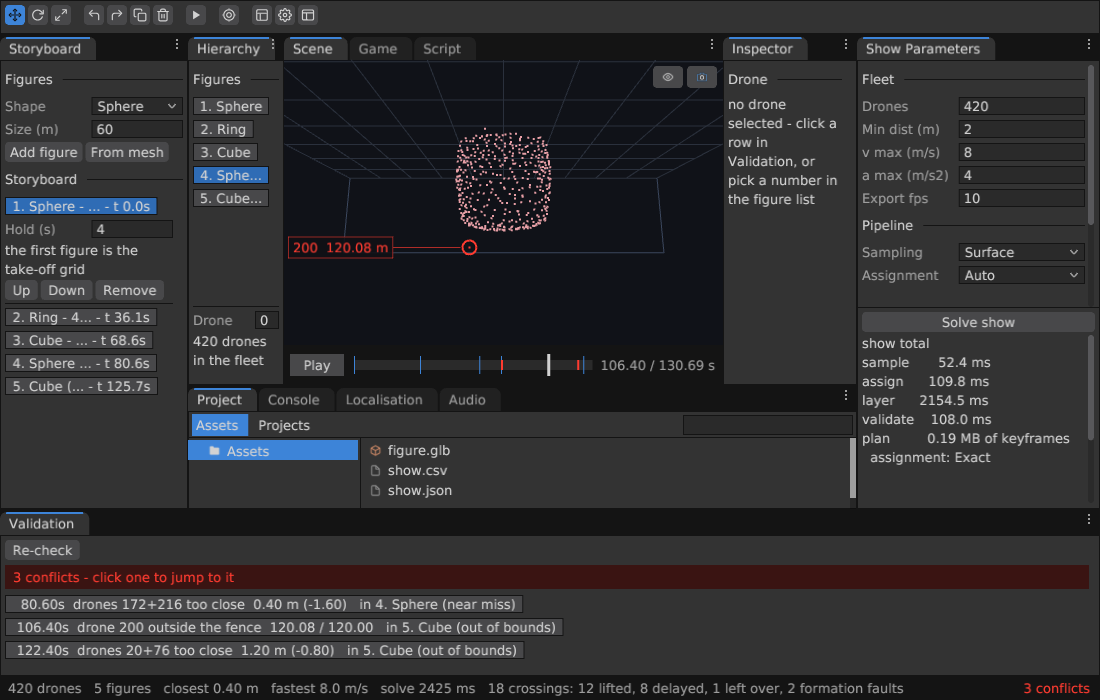
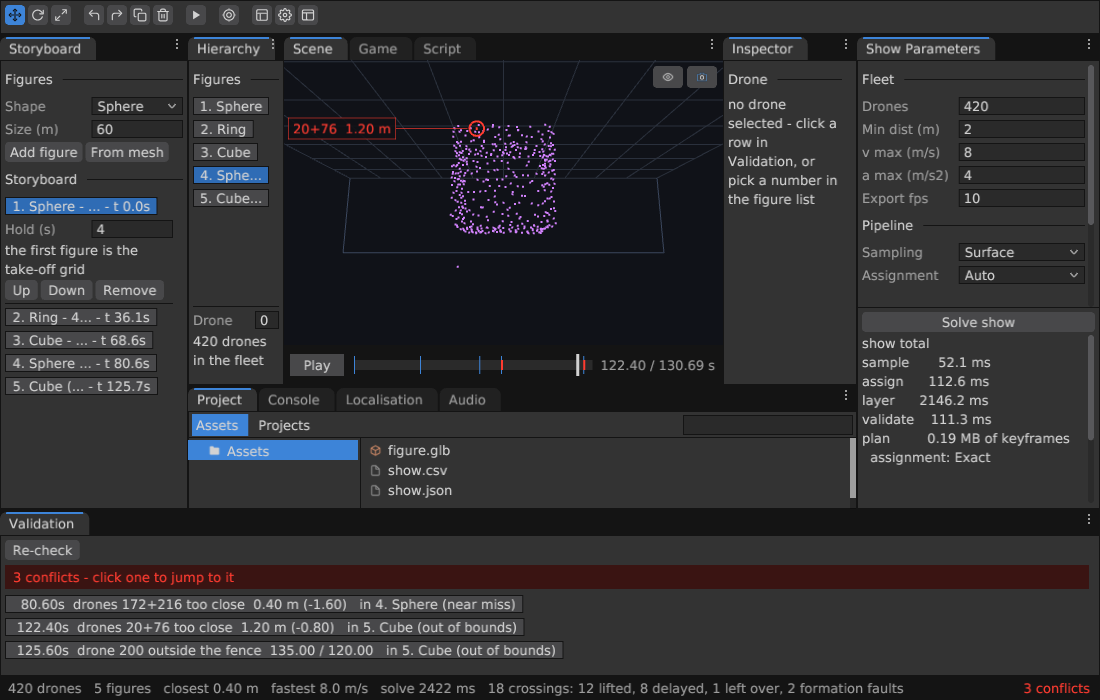
shots: the pictures are from the run RUN.md documents
Regenerated at bb8f65d, so the validation list on 06 and 08 shows the ceiling
breach at its real severity. Plus the gauntlet log.

diff --git a/GAUNTLET.md b/GAUNTLET.md
@@ -1,0 +1,41 @@
+# Gauntlet-Log — daidalos
+**Ziel:** FORTSETZUNG einer bereits laufenden Arbeit. Ein Server-Neustart hat Runde 3 mitten im Bau abgebrochen; der Stand wurde gerettet (Commit fedb5df). NICHT von vorne anfangen, NICHT neu strukturieren — den vorhandenen Code fertig machen.
+
+WAS ES SCHON GIBT (lesen: RUN.md, PLAN.md, README.md, src/dai_show*.cpp, include/dai_show*.h, tests/test_droneshow.cpp, tests/droneshow_cases_*.cpp, tools/droneshow_shot.cpp):
+Daidalos ist Justins deterministische C++-Engine (Vulkan, eigener Editor, eigene Physik Talos). Darin ist ein Drohnenshow-Modus gebaut: project.daidalos hat ein Feld kind = game | droneshow, das dasselbe Binary auf ein anderes Panel-Set umschaltet. Die Pipeline steht: 3D-Modell -> Punktwolke sampeln (Mindestabstand als harte Nebenbedingung) -> Farbe je Punkt -> Zuordnung (Jonker-Volgenant exakt, ueber 2000 Drohnen geclusterte Auktion) -> Layering/Zeitversatz fuer kollisionsfreie Uebergaenge -> Validierung (Mindestabstand, v_max, a_max ueber die ganze Zeitachse) -> Export .skyc/.csv/.json. Skaliert gemessen bis 10.000 Drohnen. Zwei Gauntlet-Runden gelaufen (67, dann 70/100, Ziel 85).
+
+DIE KONKRETE, MESSBARE RESTAUFGABE — das ist die Hauptarbeit dieser Runde:
+`./build/test_droneshow` baut sauber (0 Compilerfehler), aber schlaegt fehl: "FAILED: 244 checks, 2 failures". Die beiden Fehler stehen in Testfall [3g] "der gesampelte Show - der auf den Screenshots - ist auch sauber":
+  FAIL 1 "distance conflicts beyond the planted pair - worst is 72+220 at 30.80s, 0.000 m inside the limit: the show on the screenshots does not fly"
+  FAIL 2 "transition pairs left unresolved in the sampled show"
+Das heisst im Klartext: die Show, die auf den eigenen Screenshots zu sehen ist, ist nicht fliegbar. Ein Paar liegt exakt AUF der Grenze (0.000 m innerhalb) — das riecht nach einem Epsilon-/Vergleichsfehler (< statt <=, oder float-Rundung im Broadphase-Radius), muss aber wirklich untersucht und nicht weggetrickst werden. Der zweite Fehler ist echt: die Layer-Rettung in dai_show_layer (src/dai_show_plan.cpp, Lambda route_leg mit slot/micro/ramps) loest nicht alle Konfliktpaare auf.
+LOESE BEIDE SAUBER. Verboten: Testschwelle aufweichen, Testfall entschaerfen, Konflikt "als bekannt" in einen Report schieben und den Test gruen faerben, oder die Fixture-Show so lange verduennen bis der Konflikt verschwindet. Wenn die Rettung ein Paar wirklich nicht aufloesen kann, muss sie eine hoehere Ebene oeffnen oder den Uebergang zeitlich strecken — die Show muss danach echt fliegbar sein, mit demselben Mindestabstand.
+
+DANACH, in dieser Reihenfolge, die Punkte aus der urspruenglichen Aufgabe, soweit sie noch schwach sind:
+1. SAMPLING: N ist FIX (die Flotte hat 50 oder 100 Drohnen, nicht "so viele wie das Mesh hergibt"). Punkte gleichmaessig verteilen mit garantiertem Mindestabstand (Poisson-Disk / Lloyd-Relaxation), Silhouette/Kanten bevorzugt gewichten, weil das Publikum aus einer Richtung schaut. Ergebnis muss deterministisch sein (gleicher Seed, gleiche Punkte, bitweise).
+2. FARBE je Punkt aus Vertex-Color oder Textur am Sample-Ort.
+3. ZUORDNUNG: minimale Gesamtflugstrecke, exakt fuer kleine N, geclustert fuer grosse.
+4. UEBERGAENGE: kollisionsfrei auch bei DICHTEN Formationen — genau da, wo Skybrush selbst nur "guaranteed collision-free if the formations are sparse enough" verspricht. Das ist der inhaltliche Mehrwert.
+5. VALIDIERUNG: jede Regel einzeln pruefbar, Verstoss mit Paar-ID und Zeitstempel benannt, klickbar im UI.
+6. GUI im Daidalos-Editor: Storyboard/Timeline, Parameter-Panel (Mindestabstand, v_max, a_max, Show-Origin GPS, Drohnenzahl), Vorschau im Viewport, Konfliktliste. Beim Anlegen eines Projekts die zwei Kacheln game / droneshow.
+
+REGELN: kein neues Build-System, build.sh bleibt der einzige Einstieg. Determinismus ist nicht verhandelbar (keine Clock, kein ungeseedetes Random, pure step-Funktion) — es gibt dafuer einen Determinismus-Beweis im Test, der gruen bleiben muss. Alle 29 anderen Suiten in tools/run_tests.sh muessen gruen bleiben, nichts am bestehenden Engine-Kern kaputt machen. Am Ende RUN.md und die gemessene Skalierungstabelle auf den tatsaechlichen Stand bringen — gemessen, nicht behauptet.
+**Messlatte:** HART UND MESSBAR:
+(1) `./build.sh` laeuft ohne Fehler durch. (2) `./build/test_droneshow` endet mit NULL Fehlern — die beiden [3g]-Fehler ("0.000 m inside the limit" und "transition pairs left unresolved") sind ECHT geloest, nicht durch aufgeweichte Schwellen, entschaerfte Testfaelle oder Verduennen der Fixture-Show. Ein Kritiker MUSS `git log -p` bzw. den Diff auf genau diesen Trick pruefen und bei Verdacht hart abwerten. (3) `./tools/run_tests.sh` — alle Suiten gruen, keine Regression im Engine-Kern. (4) Der Determinismus-Beweis im Test bleibt gruen: zweimal laufen lassen ergibt bitweise dasselbe Ergebnis. (5) Die Skalierungstabelle laeuft bis 10.000 Drohnen durch und bleibt unter den dokumentierten Grenzen (Tick-Verhaeltnis < 15x, Wall < 30 s). (6) Die exportierte .skyc-Show der Fixture ist nachweislich fliegbar: kein Paar unterschreitet den Mindestabstand, keine Bahn ueberschreitet v_max/a_max — geprueft ueber die GESAMTE Zeitachse, nicht nur an den Keyframes. (7) Die Screenshots in .gauntlet-shots/ zeigen ein bedienbares Panel-Set: kein ueberlappender Text, keine abgeschnittenen Labels, keine leeren Platzhalter-Panels, Zahlen im Parameter-Panel lesbar, Konfliktliste sichtbar und klickbar, Storyboard/Timeline erkennbar. Ein Screenshot, der nur ein leeres oder halb gezeichnetes Fenster zeigt, ist ein Mangel. (8) RUN.md beschreibt exakt das, was in diesem Checkout wirklich passiert — jede genannte Zahl ist eine gemessene Ausgabe, kein Wunsch.
+**Bester Score:** 79/100 (Runde 2)
+**Agenten:** 22 · **Dauer:** 15880s
+**Runden-Snapshots:** je Runde ein Git-Commit + Tag (gauntlet-r<N>-score<S>). Bester Stand: Branch `gauntlet-best` (Runde 2) — Wechsel mit `git checkout gauntlet-best`, zurueck mit `git checkout -`.
+**Bildpruefung:** ja (12 Screenshots)
+**Runde 0 — Architektur**: 3 Module (separator, validate, sampling) — bestehendes Projekt
+  📷 Runde 1: 12 Screenshot(s): 01-start.png, 02-transition.png, 03-viewport-conflict.png, 04-storyboard.png, 05-parameters.png, 06-validation.png, 07-preview-full.png, 08-conflict-clicked.png, 09-game-mode-editor.png, narrow-01-start.png, narrow-02-transition.png, narrow-03-viewport-conflict.png
+**Runde 1** — Score 78/100 (Ziel 88)
+  ⚠ 2 Builder fehlgeschlagen: separator (Claude Code process aborted by user), validate (Claude Code process aborted by user)
+  Maengel: • RUN.md §4 (Zeilen 145-164) dokumentiert Screenshot-Namen mit Suffix `-narrow-1100x700` / `-large-1920x1080`; im Checkout liegen aber `narrow-*.png` und `wide-*.png`. tools/droneshow_shot.cpp:379 haengt das Tag als SUFFIX an - die vorliegenden Bilder koennen mit dem dokumentierten Befehl gar nicht entstehen, sie wurden von Hand umbenannt. Damit ist Kriterium 8 (RUN.md = was wirklich passiert) verletzt.  • .gauntlet-shots/09-game-mode-editor.png wird von keinem Werkzeug dieses Checkouts erzeugt (tools/editor_shot.cpp:145 schreibt `editor_<name>.png`) und ist in RUN.md nirgends erwaehnt - ein nicht reproduzierbarer, handverlesener Beleg.  • 09-game-mode-editor.png, Mitte/unten rechts: das gruene Translations-Gizmo steht auf leerem Boden, waehrend der Inspector `ball0` mit Position 2.4/0.7/0.4 selektiert zeigt; keine der beiden sichtbaren Kugeln traegt das Gizmo. Zusaetzlich stehen im Rigidbody-Block Density/Friction/Bounce alle auf 0 fuer einen 'Dynamic'-Koerper - sieht nach unbefuellten Defaults aus.  • 04-storyboard.png, 05-parameters.png, 06-validation.png: die Einzelpanel-Aufnahmen (tools/droneshow_shot.cpp:406-420, panel_shot) rendern das Panel ohne Tab/Titel formatfuellend - 06 zeigt EINE Konfliktzeile in ~790 px Panelhoehe, 04 drei Zeilen Liste ueber ~650 px Leere, und die Segment-Buttons Sphere/Cube/Ring bzw. Surface/Volume/Silhouette werden auf je ~490 px gestreckt. Das wirkt wie halb gezeichnete Platzhalter-Panels statt bedienbarer Panels.  • 01/02/03/08-*.png, Storyboard-Panel oben links: 'no mesh selected - pick one in the Project panel', waehrend das Project/Assets-Panel nur show.csv/show.json/show.skyc listet - im fotografierten Projekt ist kein Mesh waehlbar, der 'Add figure'-Weg ist in genau der ausgelieferten Fixture eine Sackgasse.
+  📷 Runde 2: 12 Screenshot(s): 01-start.png, 02-transition.png, 03-viewport-conflict.png, 04-storyboard.png, 05-parameters.png, 06-validation.png, 07-preview-full.png, 08-conflict-clicked.png, 09-game-mode-editor.png, narrow-01-start.png, narrow-02-transition.png, narrow-03-viewport-conflict.png
+**Runde 2** — Score 79/100 (Ziel 88)
+  Maengel: • Der Checkout ist SCHMUTZIG: tools/droneshow_shot.cpp (~180 Zeilen neues Feature: GLB-Import, tab_panel-Dock-Shots, SET-Namensschema), RUN.md und alle 24 PNGs sind uncommitted (git status). RUN.md behauptet 'tree at 3f786a8' und 'ok: 332 checks (tree at 3f786a8)' - dieser Baum ist aber NICHT 3f786a8, die dokumentierten Zahlen sind aus keinem Commit reproduzierbar (Messlatte 8).  • RUN.md:48 nennt 'TOTAL 2178 passed, 0 failed', die Commit-Message von 6ea748e nennt fuer denselben Lauf 2106 - eine der beiden Zahlen ist nicht gemessen, und im Checkout liegt kein Lauf-Protokoll, an dem sich das entscheiden liesse.  • narrow-01-start.png / narrow-02-transition.png / narrow-03-viewport-conflict.png, rechte Spalte 'Show Parameters' bei y~496: der komplette Solve-Bericht ist am Panelrand abgeschnitten - sichtbar bleibt nur die Ueberschrift 'show total', die Zahlen sample/assign/layer/validate/plan fehlen. Messlatte 7 ('Zahlen im Parameter-Panel lesbar') ist nur bei 1600x900 erfuellt.  • narrow-01/02/03-*.png, Project-Panel unten Mitte unter 'show.json': die Zeile 'show.skyc' ist auf halber Hoehe durch die Glyphen abgeschnitten - eine halb gezeichnete Textzeile am Panelrand, ohne sichtbaren Scrollbalken.  • 02-transition.png und narrow-02-transition.png zeigen bei t=10.50 s dieselbe Kugel wie 01-start.png - kein morphender Schwarm, keine erkennbare Transition. Das Bild, das den Kernablauf belegen soll, belegt ihn nicht.
+  📷 Runde 3: 12 Screenshot(s): 01-start.png, 02-transition.png, 02b-ring-formation.png, 02c-cube-formation.png, 03-viewport-conflict.png, 04-storyboard.png, 05-parameters.png, 06-validation.png, 07-preview-full.png, 08-conflict-clicked.png, 09-game-mode-editor.png, narrow-01-start.png
+**Runde 3** — Score 72/100 (Ziel 88)
+  ⚠ 2 Builder fehlgeschlagen: fix-r3-1 (Claude Code process aborted by user), fix-r3-2 (Claude Code returned an error result: Reached maximum number of turns (120))
+  Maengel: • src/dai_show_check.cpp:185-191 - worse() classifies DAI_SHOW_CONFLICT_FENCE as 'lower is worse'; a point parked at 135 m (tools/droneshow_shot.cpp:287) is reported as 120.082 of 120.000 m (build/last_run.log:515) - the ceiling breach severity is understated by ~15 m in UI, export and RUN.md  • tests/droneshow_cases_io.cpp:961 - the [6e] flight proof identifies the planted pair by its gap (fabs(sep-0.4)<0.02), the very method tests/droneshow_cases_plan.cpp:818-820 declares unsound; a foreign pair pushed to 0.40 m passes as 'planted'  • tests/droneshow_cases_plan.cpp:733-865 claims to be 'the sampled show - the one on the screenshots' but builds 4 figures while tools/droneshow_shot.cpp builds 5; the unresolved==0 assertion (line 858) therefore never covers the photographed show, whose status bar reads '1 left over'  • RUN.md:221 quotes 'conflict 2 t 125.70s 1.108 of 2.000 m' and RUN.md:267 quotes '2 left over', while build/last_run.log:516 prints '122.40s 1.200' and every screenshot's status bar says '1 left over, 2 formation faults'; RUN.md:141-143 quotes 7978/744 ms where last_run.log:212-213 measured 7779/726 ms  • build/last_run.log ends at '-- ok' (line 693) and contains no 'TOTAL 2213 passed, 0 failed' - the receipt RUN.md:56-77 promises for criterion (3) does not exist in this checkout
+⏹ Abbruch: zwei Runden ohne echte Verbesserung (79 → 72).
